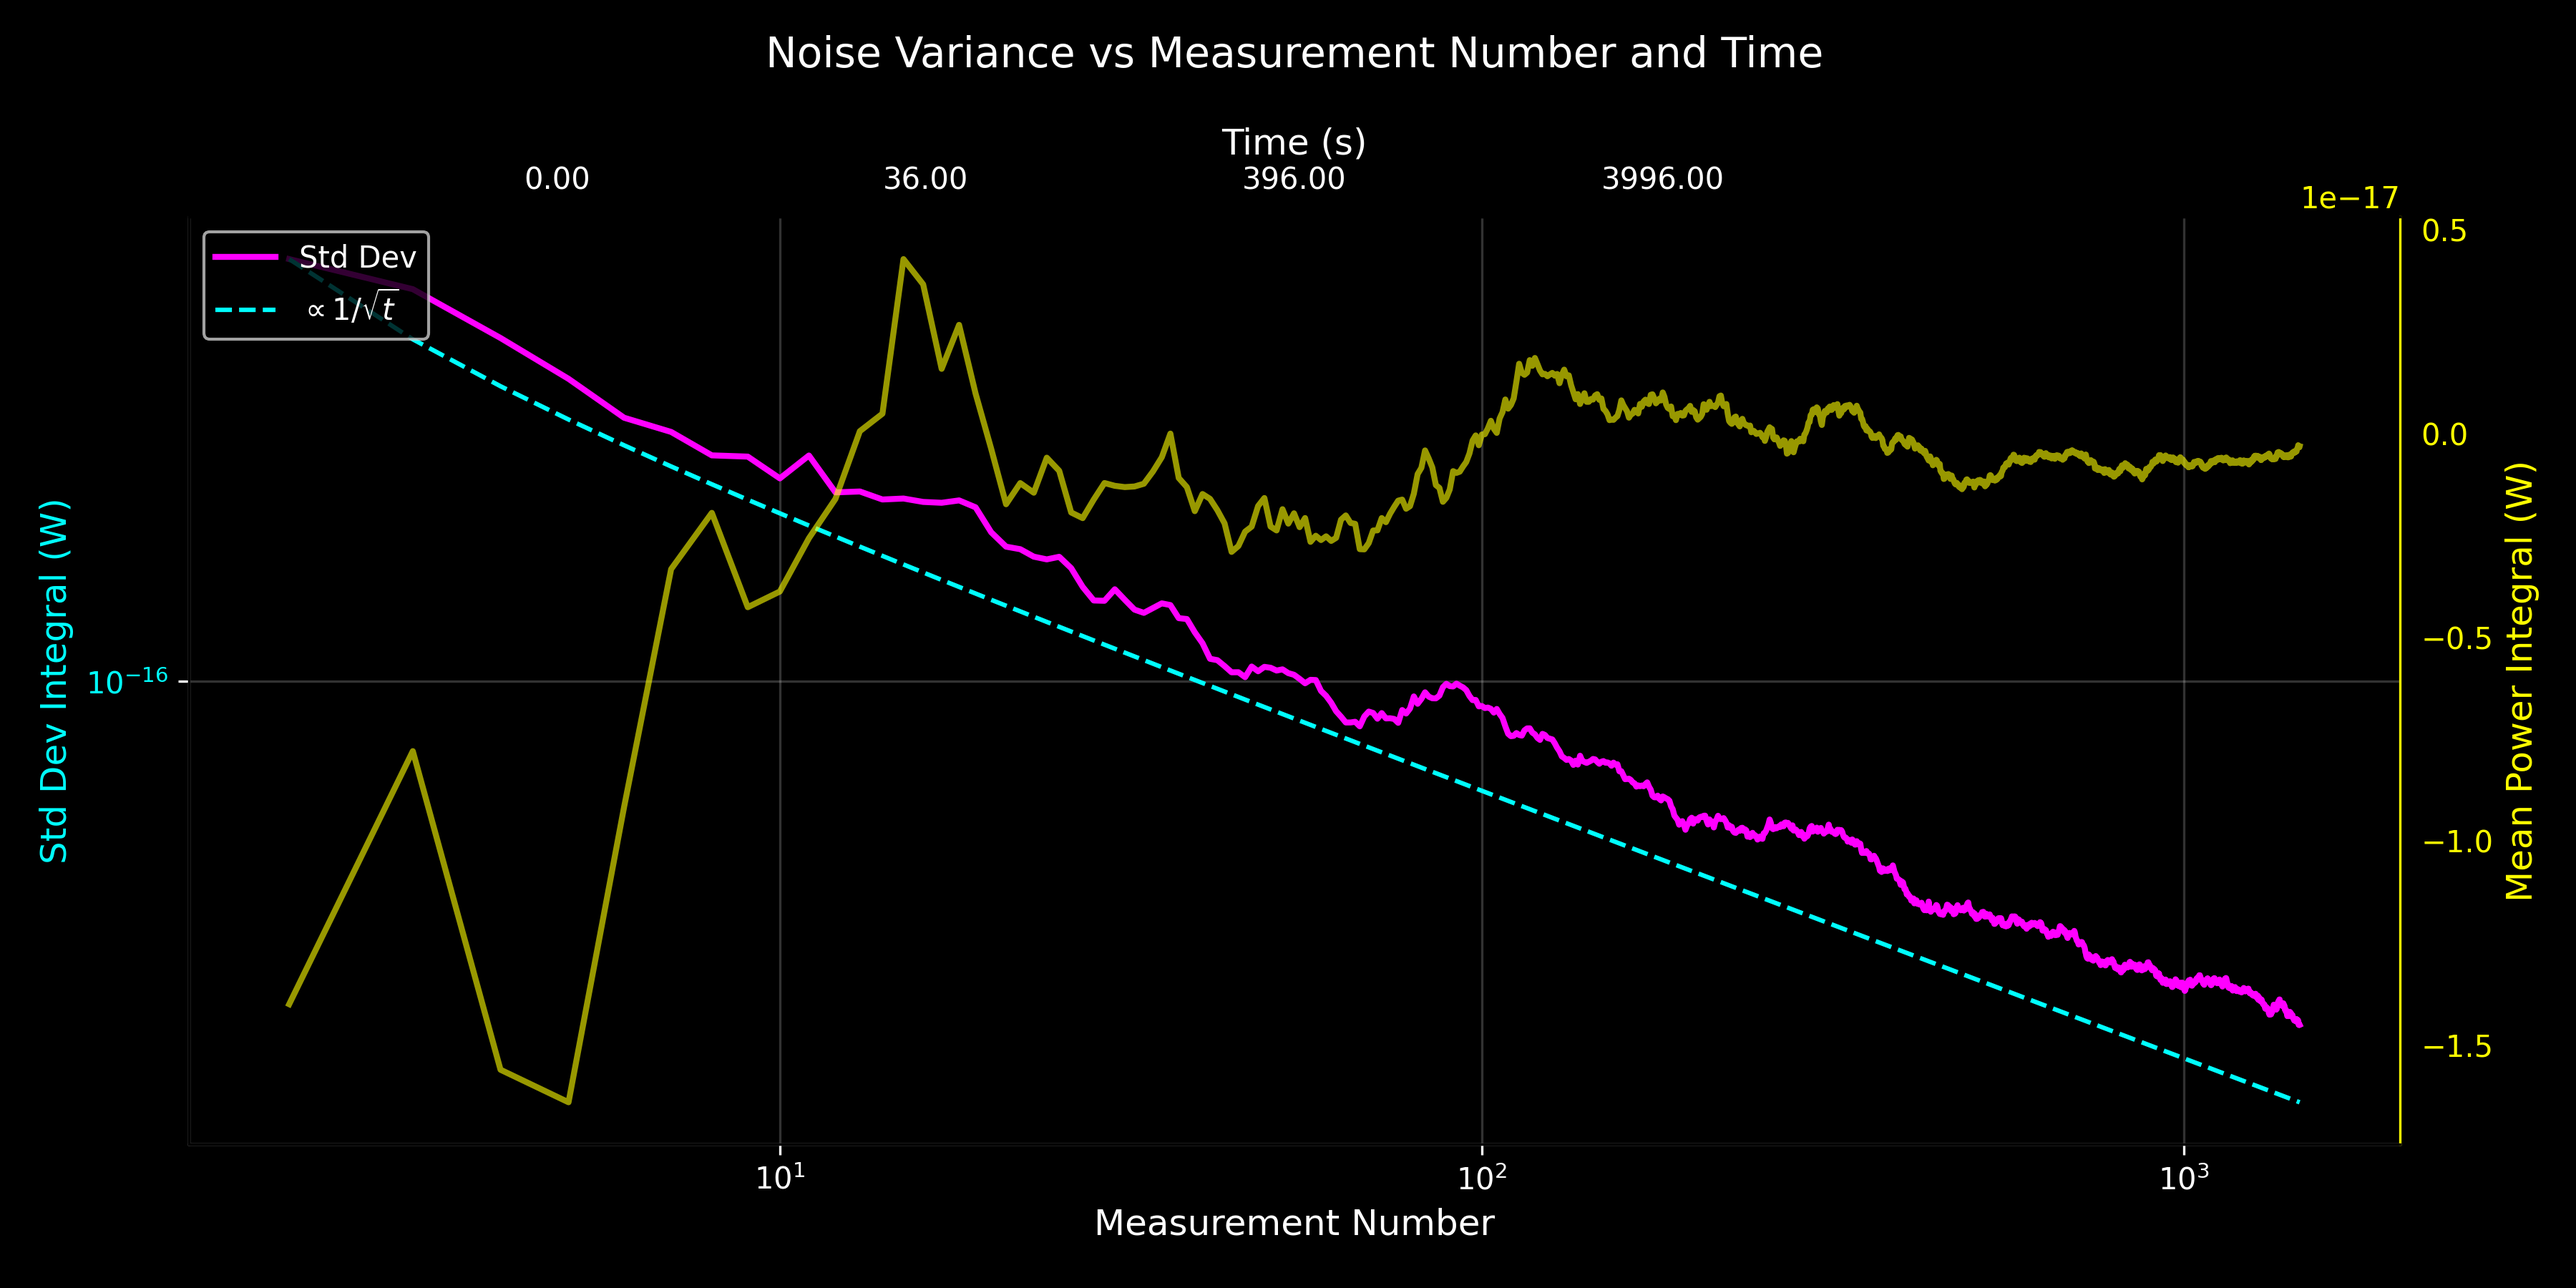
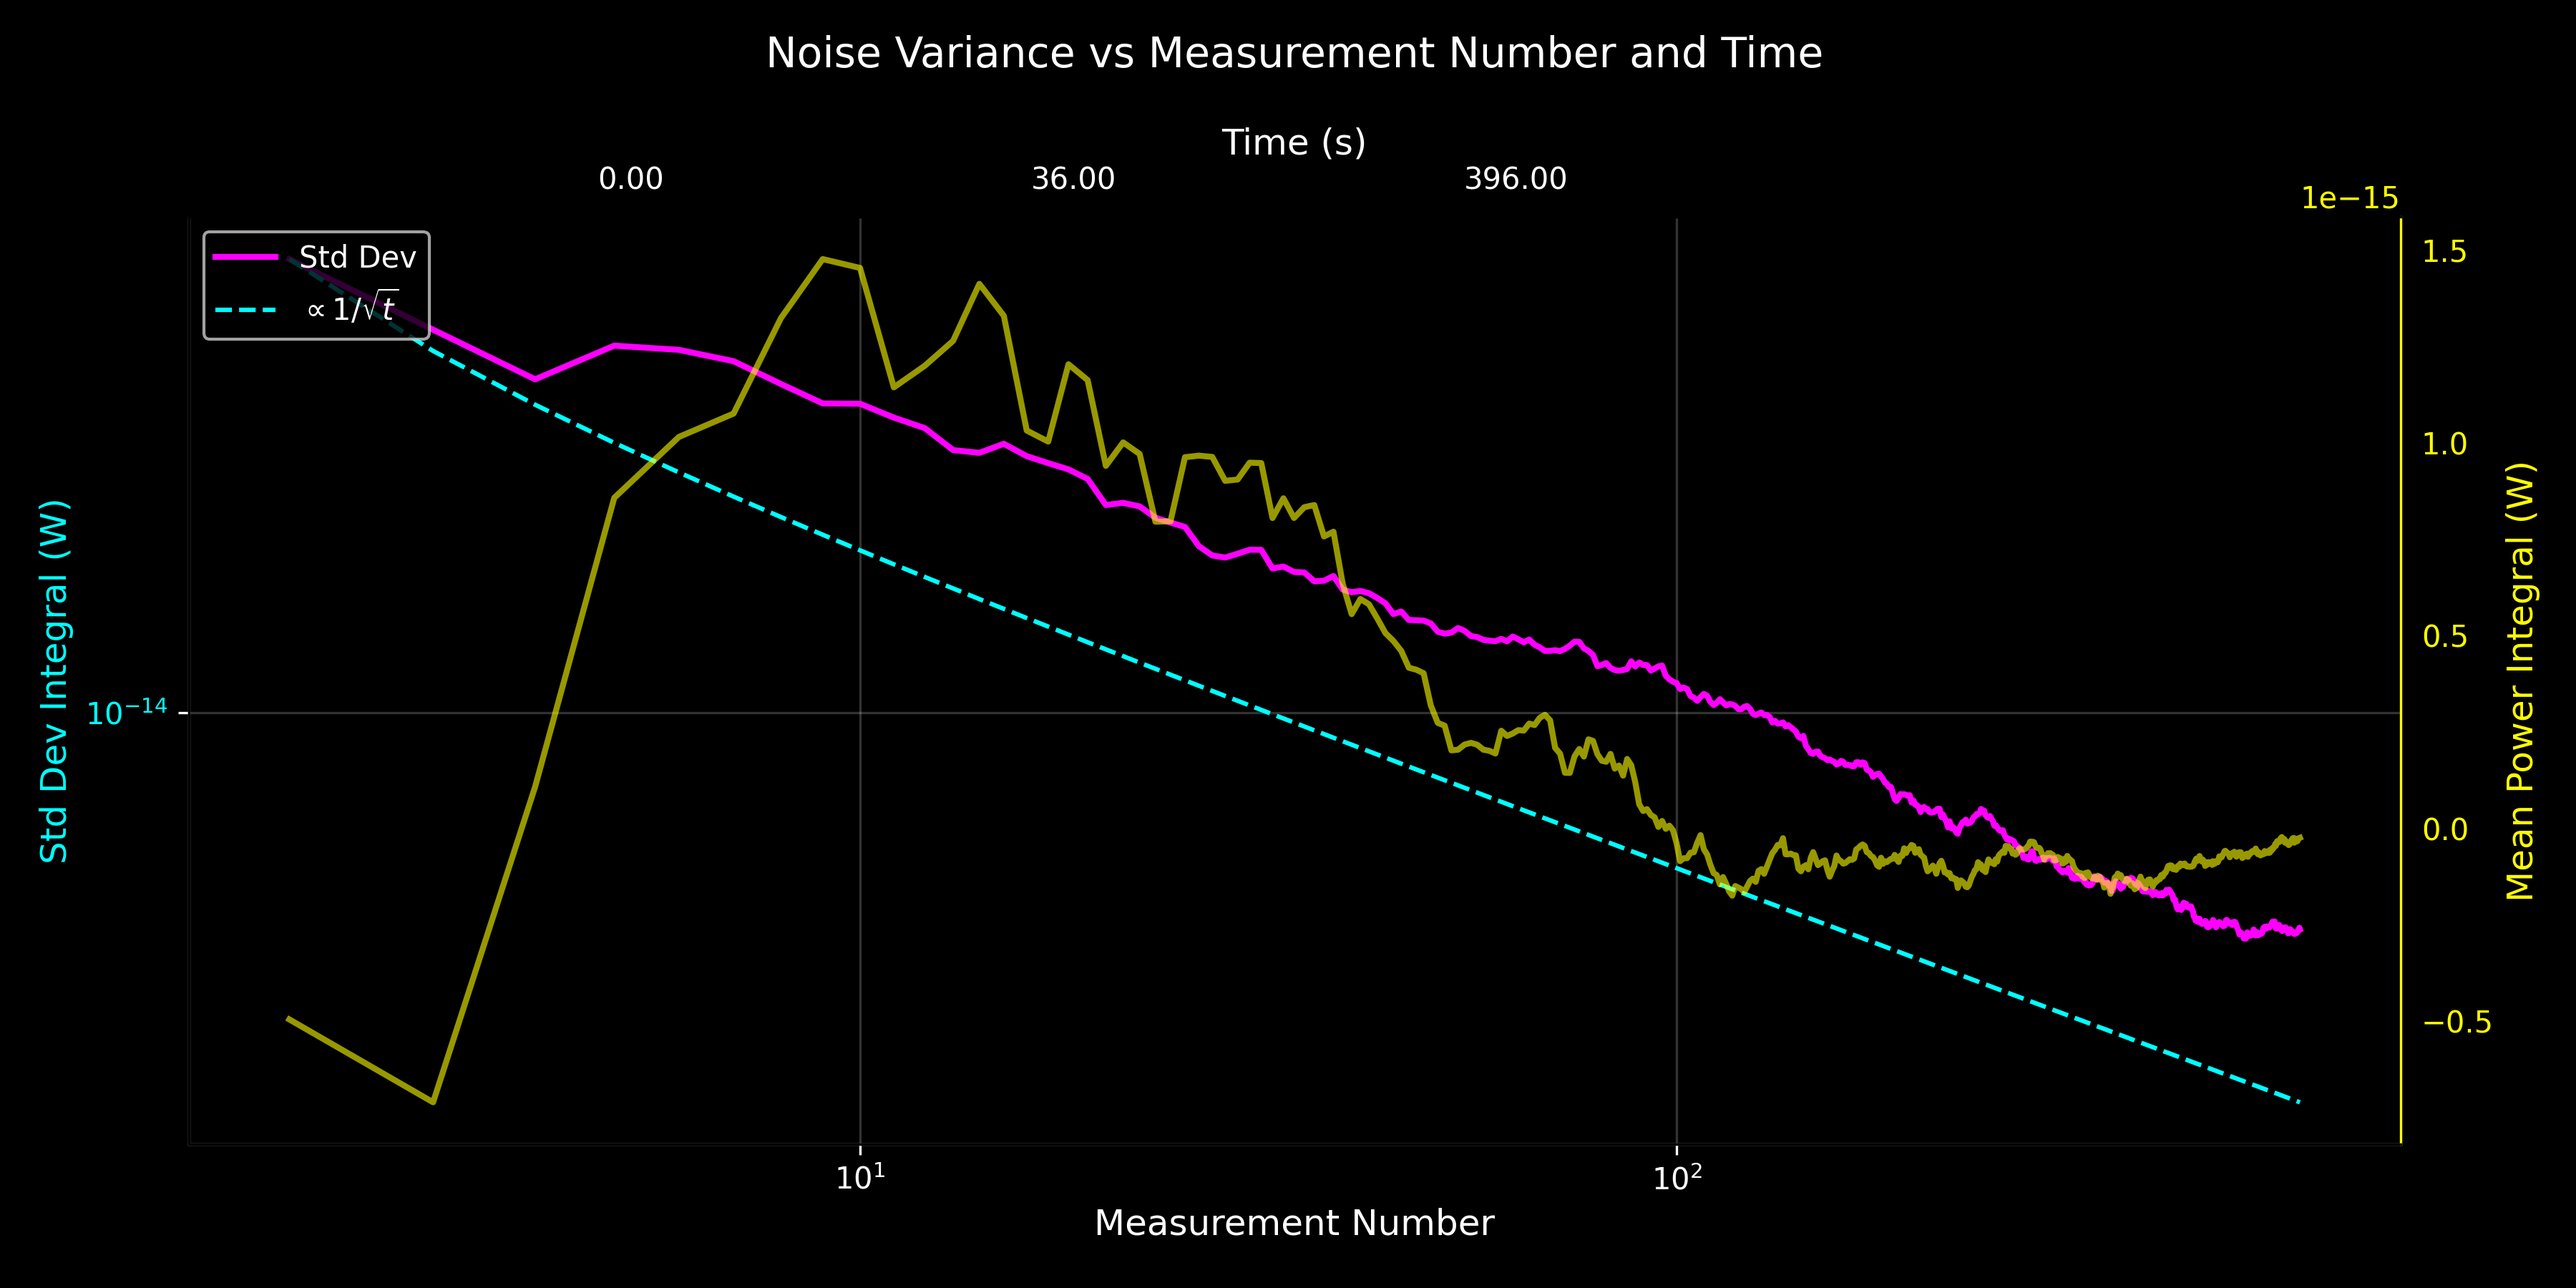
data and added effective gain in data cols

diff --git a/Codebase/Communications/StartCommunication.py b/Codebase/Communications/StartCommunication.py
@@ -90,6 +90,7 @@ class CommunicationMaster():
                     
                 # Get CO Concerntration if applicable
                 init_CO_conc = input("Enter initial CO Concentration in ppm (or leave blank to skip): ")
+                input_gain = input("Enter Effective Gain at Input in dB (or leave blank to skip): ")
                 
                 # Header info
                 header = f"""# Experiment Log ({timestamp})
@@ -101,6 +102,7 @@ class CommunicationMaster():
 #    visualization_enabled: {self.visualization_enabled}
 #    reading_interval (s): {self.interval}
 #    visual_update_cycle_interval: {self.vis_update_cadence}
+#    Effective Gain at Input (Db) : {input_gain if input_gain != '' else 'N/A'}
 #    initial_CO_concentration (ppm): {init_CO_conc if init_CO_conc != '' else 'N/A'}
 # Serial Configuration ({'ENABLED' if self.pressure_enabled else 'DISABLED'}):
 #    Port: {self.config['pressure_sensor']['serial'].get('port', 'COM1')}

diff --git a/Codebase/Analysis/Graphing.py b/Codebase/Analysis/Graphing.py
@@ -215,7 +215,7 @@ if __name__ == "__main__":
     # --- TESTING FEATURES ---
     SIM_DATA = False
     OFFSET_CENTER = False
-    TRUNCATE_SIGNAL = False
+    TRUNCATE_SIGNAL = True
     BRUTE_FORCE_CLEAN = False
 
     # --- TEST: Generate synthetic Gaussian noise for testing
